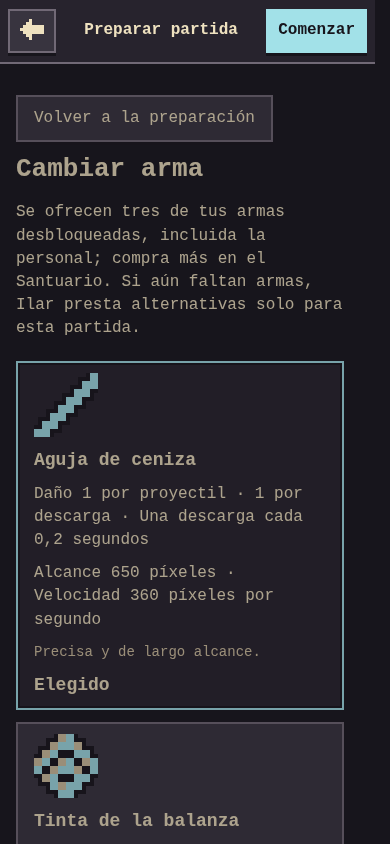
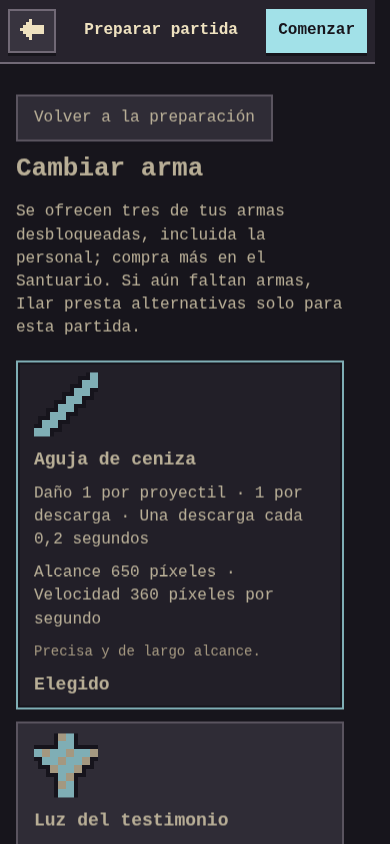
Verificar claridad en móvil y escritorio y documentar resultados

diff --git a/src/ui/catalog.js b/src/ui/catalog.js
@@ -11,10 +11,11 @@ import {buildForms} from '../evolution.js';
 import {superRequirement} from '../lore-views.js';
 import {price} from '../meta-game.js';
 import {icon,itemIcon} from './icons.js';
+export const plainText=text=>text.replaceAll('impulso','esquiva').replace(/\bpx\/s\b/g,'píxeles por segundo').replace(/\bpx\b/g,'píxeles').replace(/\bs\b/g,'segundos');
 export const number=n=>Number(n.toFixed(3)).toLocaleString('es-ES');
 export const weaponImage=(id,level=1)=>`<canvas data-weapon-icon="${id}" data-weapon-level="${level}" width="16" height="16" class="weapon-icon catalog-image" aria-label="${weapons[id].name}, forma ${level}" role="img"></canvas>`;
 export const portrait=c=>`<canvas data-portrait="${c.id}" width="32" height="32" class="portrait catalog-image" role="img" aria-label="Retrato de ${c.name}"></canvas>`;
-export function weaponStats(g){return `<ul class="catalog-stats"><li>Daño: ${number(g.damage)} por proyectil.</li><li>Cantidad: ${g.count} ${g.mode==='orbit'?'sellos orbitales':'proyectiles'} por descarga.</li><li>Cadencia: una ${g.mode==='burst'?'ráfaga':'descarga'} cada ${number(g.interval)} segundos.</li><li>Velocidad: ${g.speed?number(g.speed)+' píxeles por segundo.':'efecto fijo, sin avance lineal.'}</li><li>Alcance: ${g.mode==='orbit'?number(g.orbitRadius)+' píxeles de radio orbital; duración '+number(g.duration)+' segundos.':number(g.range)+' píxeles.'}</li></ul>`;}
+export function weaponStats(g){return `<ul class="catalog-stats"><li>Daño: ${number(g.damage)} por proyectil.</li><li>Cantidad: ${g.count} ${g.mode==='orbit'?(g.count===1?'sello orbital':'sellos orbitales'):(g.count===1?'proyectil':'proyectiles')} por descarga.</li><li>Cadencia: una ${g.mode==='burst'?'ráfaga':'descarga'} cada ${number(g.interval)} segundos.</li><li>Velocidad: ${g.speed?number(g.speed)+' píxeles por segundo.':'efecto fijo, sin avance lineal.'}</li><li>Alcance: ${g.mode==='orbit'?number(g.orbitRadius)+' píxeles de radio orbital; duración '+number(g.duration)+' segundos.':number(g.range)+' píxeles.'}</li></ul>`;}
 const finalText={split:'',backfan:'Dispara también tres proyectiles hacia atrás.',return:'Tras agotar los rebotes regresa hacia ti y puede volver a golpear.',chain:'Un impacto salta a otro enemigo cercano.',frost:'Los impactos ralentizan al enemigo durante 0,6 segundos.',quake:'El sello emite pulsos de daño durante 0,75 segundos.',sunfall:'Cada impacto deja una explosión pequeña tras 0,2 segundos.',reflect:'Los orbitales reflejan balas enemigas cercanas.',moon:'Deja una luna dañina al regresar.'};
 // Los porcentajes y tiempos del efecto final se leen de su configuración.
 import {evolutionEffects as E} from '../data/evolutions.js';
@@ -26,15 +27,15 @@ finalText.backfan=`Añade tres proyectiles hacia atrás; cada uno causa el ${num
 finalText.chain=`Un impacto envía un proyectil al enemigo más cercano; causa el ${number(E.chainDamage*100)}% del daño.`;
 finalText.reflect=`Refleja una bala enemiga a menos de ${E.reflectRange} píxeles de un orbital, como máximo cada ${number(E.reflectCooldown)} segundos; causa el ${number(E.reflectDamage*100)}% del daño orbital.`;
 finalText.moon=`Al regresar deja una luna orbital de radio ${E.moonRadius} píxeles durante ${number(E.moonLife)} segundos; atraviesa ${E.moonPierce} enemigos adicionales.`;
-export function evolutionDescription(g){return [`Dispara ${g.count} ${g.mode==='orbit'?'sellos orbitales':'proyectiles'}.`,g.sideFactor?`Cada proyectil lateral causa el ${number(g.sideFactor*100)}% del daño central.`:'',['beam','orbit','area'].includes(g.mode)?'Puede atravesar hasta 15 enemigos adicionales por emisión.':g.pierce?`Atraviesa ${g.pierce} enemigos adicionales.`:'',g.bounces?`Rebota ${g.bounces} veces en las paredes.`:'',g.projectileMode==='bounce'?'Los proyectiles rebotan.':'',g.projectileMode==='homing'?'Los proyectiles buscan enemigos.':'',g.mode==='homing'?'Se curva hacia el enemigo más cercano.':'',g.mode==='orbit'?`Órbita de ${g.orbitRadius} píxeles durante ${number(g.duration)} segundos.`:`Alcance de ${g.range} píxeles.`,g.radius&&g.mode==='area'?`Explosión de radio ${g.radius} píxeles, tras ${number(g.delay)} segundos.`:'',`Daño ${number(g.damage)}; una descarga cada ${number(g.interval)} segundos.`,g.finalEffect?'Efecto final: '+finalText[g.finalEffect]:''].filter(Boolean).join(' ');}
-export function weaponDetails(id){const g=weapons[id];return `${weaponStats(g)}<p>${g.special}</p><p>Valores base sin mejoras ni bonificaciones del personaje. Los proyectiles laterales y los efectos secundarios tienen su propio daño.</p><h3>Cuatro formas de evolución</h3><p>Las bajas se acumulan por arma durante la partida y se conservan al alternarla. Las marcas del icono indican la forma.</p><div class="catalog-evolutions">${buildForms(id).map((f,i)=>`<article>${weaponImage(id,i+1)}<h4>${D.evolution.names[i]}</h4><p>${i?D.evolution.thresholds[i-1]+' bajas acumuladas':'Desde el inicio · 0 bajas'}</p><p>${evolutionDescription(f)}</p></article>`).join('')}</div>`;}
-export function abilityDetails(c){return `${abilities[c.id].name}: ${abilities[c.id].text.replace('impulso','esquiva')} Al activarla obtienes ${number(X.ability.invulnerability)} segundos de invulnerabilidad. Se carga rozando balas sin recibir daño.`;}
+export function evolutionDescription(g){return [`Dispara ${g.count} ${g.mode==='orbit'?(g.count===1?'sello orbital':'sellos orbitales'):(g.count===1?'proyectil':'proyectiles')}.`,g.sideFactor?`Cada proyectil lateral causa el ${number(g.sideFactor*100)}% del daño central.`:'',['beam','orbit','area'].includes(g.mode)?'Puede atravesar hasta 15 enemigos adicionales por emisión.':g.pierce?`Atraviesa ${g.pierce} ${g.pierce===1?'enemigo adicional':'enemigos adicionales'}.`:'',g.bounces?`Rebota ${g.bounces} ${g.bounces===1?'vez':'veces'} en las paredes.`:'',g.projectileMode==='bounce'?'Los proyectiles rebotan.':'',g.projectileMode==='homing'?'Los proyectiles buscan enemigos.':'',g.mode==='homing'?'Se curva hacia el enemigo más cercano.':'',g.mode==='orbit'?`Órbita de ${g.orbitRadius} píxeles durante ${number(g.duration)} segundos.`:`Alcance de ${g.range} píxeles.`,g.radius&&g.mode==='area'?`Explosión de radio ${g.radius} píxeles, tras ${number(g.delay)} segundos.`:'',`Daño ${number(g.damage)}; una descarga cada ${number(g.interval)} segundos.`,g.finalEffect?'Efecto final: '+finalText[g.finalEffect]:''].filter(Boolean).join(' ');}
+export function weaponDetails(id){const g=weapons[id];return `${weaponStats(g)}<p>${plainText(g.special)}</p><p>Valores base sin mejoras ni bonificaciones del personaje; daño redondeado a tres decimales. Los proyectiles laterales y los efectos secundarios tienen su propio daño.</p><h3>Cuatro formas de evolución</h3><p>Las bajas se acumulan por arma durante la partida y se conservan al alternarla. Las marcas del icono indican la forma.</p><div class="catalog-evolutions">${buildForms(id).map((f,i)=>`<article>${weaponImage(id,i+1)}<h4>${D.evolution.names[i]}</h4><p>${i?D.evolution.thresholds[i-1]+' bajas acumuladas':'Desde el inicio · 0 bajas'}</p><p>${evolutionDescription(f)}</p></article>`).join('')}</div>`;}
+export function abilityDetails(c){return `${abilities[c.id].name}: ${plainText(abilities[c.id].text)} Al activarla obtienes ${number(X.ability.invulnerability)} segundos de invulnerabilidad. Se carga rozando balas sin recibir daño.`;}
 function luckText(level){const weights=B.progression.weights,rare=weights.rare+level*D.stats.luckWeight,epic=weights.epic+level*D.stats.luckWeight*0.3,total=weights.common+rare+epic;return `Raros ${number(100*rare/total)}%; épicos ${number(100*epic/total)}% (Brasa tenue, con las tres rarezas disponibles).`;}
 export function treeEffect(id,level){return {vitality:`+${level} de vida inicial (tope global ${D.caps.health}).`,stride:`+${number(level*D.stats.permanentSpeed*100)}% de velocidad inicial.`,luck:luckText(level),discount:`${number(level*D.stats.discount*100)}% de descuento en compras del Santuario; el precio se redondea hacia arriba.`}[id];}
-function itemEffect(u){return u.text.replaceAll('impulso','esquiva')+(u.id==='oath'?' Prolonga el estado temporal de la habilidad; no repite la curación ni la recarga instantáneas.':'')+(u.id==='dawn'?' La curación se ajusta a la dificultad y los pactos.':'');}
+function itemEffect(u){return plainText(u.text)+(u.id==='oath'?' Prolonga el estado temporal de la habilidad; no repite la curación ni la recarga instantáneas.':'')+(u.id==='dawn'?' La curación se ajusta a la dificultad y los pactos.':'');}
 export function catalogue(save){const entries=[];const add=(category,id,name,image,effect,change,owned,details='')=>entries.push({key:category+':'+id,category,id,name,image,effect,change,owned,details,cost:price(save,category,id)});
- for(const g of Object.values(weapons))add('weapon',g.id,g.name,weaponImage(g.id),`${number(g.damage)} de daño por proyectil; ${g.count} por descarga cada ${number(g.interval)} segundos. ${g.special}`,'Podrás elegirla como arma inicial y aparecerá como botín en tus partidas',save.meta.weapons.includes(g.id),weaponDetails(g.id));
- for(const c of Object.values(characters)){const owned=canSelect(save.progress,c);add('character',c.id,c.name,portrait(c),`${c.health} de vida; velocidad ${c.speed} píxeles por segundo; hitbox de radio ${c.radius} píxeles.`,`Desbloquea esta alma para elegirla al preparar una partida. Su arma personal se presta al elegirla; comprar el alma no abre el arma como botín. Alternativa sin ecos: ${c.unlock}.`,owned,`<p>Daño base: ×${number(c.damage)}.</p><p>${c.passive.replaceAll('impulso','esquiva')}</p><p>Arma personal: ${weaponImage(c.weapon)} ${weapons[c.weapon].name}.</p><h3>Habilidad especial</h3><p>${abilityDetails(c)}</p><p>${c.story}</p>`);}
+ for(const g of Object.values(weapons))add('weapon',g.id,g.name,weaponImage(g.id),`${number(g.damage)} de daño por proyectil; ${g.count} por descarga cada ${number(g.interval)} segundos. ${plainText(g.special)}`,'Podrás elegirla como arma inicial y aparecerá como botín en tus partidas',save.meta.weapons.includes(g.id),weaponDetails(g.id));
+ for(const c of Object.values(characters)){const owned=canSelect(save.progress,c);add('character',c.id,c.name,portrait(c),`${c.health} de vida; velocidad ${c.speed} píxeles por segundo; hitbox de radio ${c.radius} píxeles.`,`Desbloquea esta alma para elegirla al preparar una partida. Su arma personal se presta al elegirla; comprar el alma no abre el arma como botín. Alternativa sin ecos: ${c.unlock}.`,owned,`<p>Daño base: ×${number(c.damage)}.</p><p>${plainText(c.passive)}</p><p>Arma personal: ${weaponImage(c.weapon)} ${weapons[c.weapon].name}.</p><h3>Habilidad especial</h3><p>${abilityDetails(c)}</p><p>${c.story}</p>`);}
  for(const [id,c] of Object.entries(D.tree)){const level=save.meta.tree[id];add('tree',id,c.name,icon({vitality:'heart',stride:'dash',luck:'start',discount:'echo'}[id],48),`Nivel ${level}/${c.max}. Ahora: ${treeEffect(id,level)}`,level<c.max?`Nivel ${level}/${c.max} → Nivel ${level+1}: ${treeEffect(id,level+1)}`:'Rama completada; no admite más niveles.',level>=c.max,`<p>Máximo: ${c.max} ${c.max===1?'nivel':'niveles'}. El precio aumenta con cada compra.</p>${id==='luck'?'<p>La suerte aumenta la posibilidad de recibir rarezas mejores; no añade un porcentaje fijo. La probabilidad cambia según la dificultad y las rarezas que aún tengan ítems disponibles.</p>':''}`);}
  for(const u of upgrades.filter(u=>u.shopUnlock||u.unlock))add('item',u.id,u.name,itemIcon(u.id),itemEffect(u),'Abre este ítem en las recompensas de tus partidas; no lo entrega inmediatamente.',save.meta.items.includes(u.id)||!!(u.unlock&&save.progress.unlocks>=u.unlock),`<p>Máximo ${u.max} niveles por partida. Se obtiene eligiéndolo cuando aparece como mejora.${u.unlock?' También se abre con la progresión antigua de desbloqueos.':''}</p>`);
  for(const s of superItems.filter(s=>s.shopUnlock))add('super',s.id,s.name,itemIcon(s.id),s.text.replace('Tiempo enemigo al 65%.',`Balas enemigas al ${R.timeFactor*100}% de velocidad.`).replace('órbitas de protección','sellos orbitales que dañan a los enemigos')+` Daño ×${number(s.damage)}; velocidad de movimiento ×${number(s.speed)}.`,'Compra su catálogo. No concede el superítem ni omite su condición durante la partida.',save.meta.supers.includes(s.id),`<h3>Condición para conseguirlo en partida</h3><p>${superRequirement(s)}.</p><p>Solo un superítem por partida. La curación se ajusta a la dificultad y los pactos.${s.id==='nobody'?` La reducción de tiempo afecta a las balas enemigas: velocidad al ${R.timeFactor*100}%.`:''}</p>`);

diff --git a/src/ui/screens.js b/src/ui/screens.js
@@ -1,5 +1,5 @@
 import {abilities} from '../data/extras.js';
-import {weaponImage,portrait,abilityDetails,number} from './catalog.js';
+import {weaponImage,portrait,abilityDetails,number,plainText} from './catalog.js';
 import {icon} from './icons.js';
 import {characters,canSelect} from '../data/characters.js';
 import {weapons} from '../data/weapons.js';
@@ -11,10 +11,10 @@ export function preparationScreen(w,save,state){
  const c=w.character,g=weapons[state.weapon],d=difficulties[w.difficultyIndex];
  const back='<button data-prep-tab="summary">Volver a la preparación</button>';
  let content='';
- if(state.tab==='summary')content=`<div class="prep-equipment"><article><h3>Tu personaje</h3>${portrait(c)}<strong>${c.name}</strong><p>${abilities[c.id].name}: ${abilities[c.id].text.replaceAll('impulso','esquiva')}</p><button data-prep-tab="character">Cambiar personaje</button></article><article><h3>Tu arma</h3>${weaponImage(g.id)}<strong>${g.name}</strong><p>${number(g.damage)} de daño por proyectil · ${g.count} por descarga</p><button data-prep-tab="weapon">Cambiar arma</button></article></div>${state.showHelp?'<div class="prep-help" role="note"><p>Aquí cambias de personaje y de arma. Toca «Cambiar» en el bloque correspondiente y elige una tarjeta.</p><button data-dismiss-prep-help>Entendido</button></div>':''}<section class="prep-initial"><h3>Mejora inicial</h3><p>Se aplicará al comenzar. Puedes elegir otra sin gastar ecos.</p>${initialChoices(w,state)}</section><button data-prep-tab="rules">Dificultad: ${d.name} · ${w.pactIds.length} pactos activos · Opciones avanzadas</button>`;
+ if(state.tab==='summary')content=`<div class="prep-equipment"><article><h3>Tu personaje</h3>${portrait(c)}<strong>${c.name}</strong><p>${abilities[c.id].name}: ${plainText(abilities[c.id].text)}</p><button data-prep-tab="character">Cambiar personaje</button></article><article><h3>Tu arma</h3>${weaponImage(g.id)}<strong>${g.name}</strong><p>${number(g.damage)} de daño por proyectil · ${g.count} por descarga</p><button data-prep-tab="weapon">Cambiar arma</button></article></div>${state.showHelp?'<div class="prep-help" role="note"><p>Aquí cambias de personaje y de arma. Toca «Cambiar» en el bloque correspondiente y elige una tarjeta.</p><button data-dismiss-prep-help>Entendido</button></div>':''}<section class="prep-initial"><h3>Mejora inicial</h3><p>Se aplicará al comenzar. Puedes elegir otra sin gastar ecos.</p>${initialChoices(w,state)}</section><button data-prep-tab="rules">Dificultad: ${d.name} · ${w.pactIds.length} pactos activos · Opciones avanzadas</button>`;
  if(state.tab==='character')content=`${back}<h2>Cambiar personaje</h2><p>Toca «Elegir» para volver con tu nueva alma. Su arma personal estará entre las tres opciones.</p><div class="cards">${Object.values(characters).map(ch=>{const available=canSelect(save.progress,ch),chosen=ch.id===c.id;return `<article class="upgrade ${chosen?'selected':''}">${portrait(ch)}<strong>${ch.name}</strong><p>Vida ${ch.health} · Velocidad ${ch.speed} píxeles por segundo · Hitbox de radio ${ch.radius} píxeles · Daño ×${number(ch.damage)}</p><p>${abilityDetails(ch)}</p><p>Arma personal: ${weaponImage(ch.weapon)} ${weapons[ch.weapon].name}.</p><small>${ch.story}</small><strong>${chosen?'Elegido':available?'Disponible':'Bloqueado · '+ch.unlock}</strong><button data-prep-character="${ch.id}" ${available&&!w.dailyKey?'':'disabled'} aria-pressed="${chosen}">${chosen?'Elegido':'Elegir '+ch.name}</button>${!available?'<button data-prep-sanctuary="characters">Ir al Santuario</button>':''}</article>`;}).join('')}</div>${back}`;
- if(state.tab==='weapon')content=`${back}<h2>Cambiar arma</h2><p>Se ofrecen tres de tus armas desbloqueadas, incluida la personal; compra más en el Santuario. Si aún faltan armas, Ilar presta alternativas solo para esta partida.</p><div class="cards">${w.draft.map(choice=>{const gun=weapons[choice.id];return `<button class="upgrade ${state.weapon===gun.id?'selected':''}" data-start-weapon="${gun.id}" aria-pressed="${state.weapon===gun.id}">${weaponImage(gun.id)}<strong>${gun.name}</strong><span>Daño ${number(gun.damage)} por proyectil · ${gun.count} por descarga · Una descarga cada ${number(gun.interval)} segundos</span><span>${gun.mode==='orbit'?'Radio orbital '+gun.orbitRadius+' píxeles':'Alcance '+gun.range+' píxeles'} · Velocidad ${gun.speed} píxeles por segundo</span><small>${gun.special}</small><strong>${state.weapon===gun.id?'Elegido':choice.loan?'Préstamo para esta partida':gun.id===c.weapon?'Arma personal':'Desbloqueada'}</strong></button>`;}).join('')}</div><button data-reroll="weapon" ${save.meta.rerolls&&!w.dailyKey?'':'disabled'}>Cambiar las tres opciones · ${w.dailyKey?0:save.meta.rerolls} cambios restantes</button><h3>Resto del catálogo</h3><p>Las armas compradas pueden salir en otra selección o como botín. No sustituyen las tres ofrecidas sin gastar un cambio.</p><div class="cards">${Object.values(weapons).filter(gun=>!w.draft.some(choice=>choice.id===gun.id)).map(gun=>{const unlocked=save.meta.weapons.includes(gun.id)||!!w.dailyKey;return `<article class="upgrade">${weaponImage(gun.id)}<strong>${gun.name}</strong><p>${number(gun.damage)} de daño; ${gun.count} proyectiles cada ${number(gun.interval)} segundos.</p><p>${gun.special}</p><strong>${unlocked?'Desbloqueada · No ofrecida esta vez':'Bloqueada · Se compra con ecos en el Santuario'}</strong>${!unlocked?'<button data-prep-sanctuary="weapons">Ir al Santuario</button>':''}</article>`;}).join('')}</div>${back}`;
- if(state.tab==='rules')content=`${back}<h2>Dificultad y opciones avanzadas</h2><label>Dificultad <select id="difficulty-input" ${w.dailyKey?'disabled':''}>${difficulties.map((difficulty,i)=>`<option value="${i}" ${i===w.difficultyIndex?'selected':''} ${i>save.meta.difficulty?'disabled':''}>${difficulty.name}${i>save.meta.difficulty?' · bloqueada':''}</option>`).join('')}</select></label><div class="rule-description"><h3>${w.rules.name}</h3><p>Vida enemiga ×${w.rules.health} · Balas ×${w.rules.speed} · Curación ×${w.rules.heal}</p><p class="accent">Recompensa: ×${w.rules.echoes} ecos. ${w.rules.extraPhases?'Los jefes tienen fases adicionales.':'Ataques con señal previa.'}</p></div><details class="prep-advanced"><summary>Opciones avanzadas · ${w.pactIds.length} pactos activos</summary><h3>Pactos opcionales · ${w.pactIds.length}/5</h3><p>Más riesgo a cambio de ecos. Puedes dejarlos todos desactivados.</p>${pacts.map(p=>`<label class="setting"><span>${p.name}<br><small>${p.text} +${Math.round(p.echoes*100)}% ecos.</small></span><input type="checkbox" data-pact="${p.id}" ${w.pactIds.includes(p.id)?'checked':''} ${w.dailyKey?'disabled':''}></label>`).join('')}<details><summary>Mundo y semilla</summary><label>Mundo inicial <select id="start-world" ${w.dailyKey?'disabled':''}>${worlds.map((z,i)=>`<option value="${i}" ${i===w.worldIndex?'selected':''} ${i>=save.progress.worlds?'disabled':''}>${z.name}</option>`).join('')}</select></label><p>Completa desde el fondo para desbloquear la siguiente dificultad.</p><label>Semilla <input id="seed-input" inputmode="numeric" maxlength="10" value="${state.seedText??w.seed}" ${w.dailyKey?'disabled':''}></label><p id="seed-error" role="status"></p></details></details>${back}`;
+ if(state.tab==='weapon')content=`${back}<h2>Cambiar arma</h2><p>Se ofrecen tres de tus armas desbloqueadas, incluida la personal; compra más en el Santuario. Si aún faltan armas, Ilar presta alternativas solo para esta partida.</p><div class="cards">${w.draft.map(choice=>{const gun=weapons[choice.id];return `<button class="upgrade ${state.weapon===gun.id?'selected':''}" data-start-weapon="${gun.id}" aria-pressed="${state.weapon===gun.id}">${weaponImage(gun.id)}<strong>${gun.name}</strong><span>Daño ${number(gun.damage)} por proyectil · ${gun.count} por descarga · Una descarga cada ${number(gun.interval)} segundos</span><span>${gun.mode==='orbit'?'Radio orbital '+gun.orbitRadius+' píxeles':'Alcance '+gun.range+' píxeles'} · Velocidad ${gun.speed} píxeles por segundo</span><small>${plainText(gun.special)}</small><strong>${state.weapon===gun.id?'Elegido':choice.loan?'Préstamo para esta partida':gun.id===c.weapon?'Arma personal':'Desbloqueada'}</strong></button>`;}).join('')}</div><button data-reroll="weapon" ${save.meta.rerolls&&!w.dailyKey?'':'disabled'}>Cambiar las tres opciones · ${w.dailyKey?0:save.meta.rerolls} cambios restantes</button><h3>Resto del catálogo</h3><p>Las armas compradas pueden salir en otra selección o como botín. No sustituyen las tres ofrecidas sin gastar un cambio.</p><div class="cards">${Object.values(weapons).filter(gun=>!w.draft.some(choice=>choice.id===gun.id)).map(gun=>{const unlocked=save.meta.weapons.includes(gun.id)||!!w.dailyKey;return `<article class="upgrade">${weaponImage(gun.id)}<strong>${gun.name}</strong><p>${number(gun.damage)} de daño; ${gun.count} proyectiles cada ${number(gun.interval)} segundos.</p><p>${plainText(gun.special)}</p><strong>${unlocked?'Desbloqueada · No ofrecida esta vez':'Bloqueada · Se compra con ecos en el Santuario'}</strong>${!unlocked?'<button data-prep-sanctuary="weapons">Ir al Santuario</button>':''}</article>`;}).join('')}</div>${back}`;
+ if(state.tab==='rules')content=`${back}<h2>Dificultad y opciones avanzadas</h2><label>Dificultad <select id="difficulty-input" ${w.dailyKey?'disabled':''}>${difficulties.map((difficulty,i)=>`<option value="${i}" ${i===w.difficultyIndex?'selected':''} ${i>save.meta.difficulty?'disabled':''}>${difficulty.name}${i>save.meta.difficulty?' · bloqueada':''}</option>`).join('')}</select></label><div class="rule-description"><h3>${w.rules.name}</h3><p>Vida enemiga ×${w.rules.health} · Balas ×${w.rules.speed} · Curación ×${w.rules.heal}</p><p class="accent">Recompensa: ×${w.rules.echoes} ecos. ${w.rules.extraPhases?'Los jefes tienen fases adicionales.':'Ataques con señal previa.'}</p></div><details class="prep-advanced"><summary>Opciones avanzadas · ${w.pactIds.length} pactos activos</summary><h3>Pactos opcionales · ${w.pactIds.length}/5</h3><p>Más riesgo a cambio de ecos. Puedes dejarlos todos desactivados.</p>${pacts.map(p=>`<label class="setting"><span>${p.name}<br><small>${p.text} +${Math.round(p.echoes*100)}% ecos.</small></span><input type="checkbox" data-pact="${p.id}" ${w.pactIds.includes(p.id)?'checked':''} ${w.dailyKey?'disabled':''}></label>`).join('')}<details><summary>Mundo y semilla</summary><label>Mundo inicial <select id="start-world" ${w.dailyKey?'disabled':''}>${worlds.map((z,i)=>`<option value="${i}" ${i===w.worldIndex?'selected':''} ${i>=save.progress.worlds?'disabled':''}>${z.name}</option>`).join('')}</select></label><p>Completa desde el fondo para desbloquear la siguiente dificultad.</p><label>Semilla <input id="seed-input" inputmode="numeric" maxlength="10" value="${String(state.seedText??w.seed).replaceAll('&','&amp;').replaceAll('"','&quot;').replaceAll('<','&lt;').replaceAll('>','&gt;')}" ${w.dailyKey?'disabled':''}></label><p id="seed-error" role="status"></p></details></details>${back}`;
  return `<section class="preparation-clarity">${w.dailyKey?'<p class="accent">Diaria: misma semilla y equipo disponible para todos, sin árbol permanente ni cambios de opciones.</p>':''}${content}<p class="prep-swap-help">${state.touch?'Durante la partida cambias de arma con el botón Cambiar.':'Durante la partida cambias de arma con '+state.swapKey+' o el botón Cambiar.'}</p></section>`;
 }
 function initialChoices(w,s){return `<div class="cards">${w.options.map(u=>`<button class="upgrade ${s.initial===u.id?'selected':''}" data-prep-initial="${u.id}" aria-pressed="${s.initial===u.id}"><strong>${u.name}</strong><span>${u.text}</span><small>${s.initial===u.id?'Elegida':'Elegir mejora'}</small></button>`).join('')}</div>`;}

diff --git a/sw.js b/sw.js
@@ -1,5 +1,5 @@
 // Subir CACHE al publicar cambios: una versión completa, sin activar durante el combate.
-const CACHE='el-umbral-clarity-2';
+const CACHE='el-umbral-clarity-3';
 const FILES=[
  "./",
  "index.html",

diff --git a/docs/capturas/claridad/README.md b/docs/capturas/claridad/README.md
@@ -1,0 +1,20 @@
+# Capturas de claridad
+
+Viewports en píxeles CSS. Una sola zona de desplazamiento; cabecera fija. Las imágenes muestran la parte visible de contenidos que pueden desplazarse.
+
+| Pantalla | 390×844 | 844×390 | 768×1024 | 1920×1080 |
+|---|---|---|---|---|
+| Santuario · Armas | [Ver](santuario-weapons-390x844.png) | [Ver](santuario-weapons-844x390.png) | [Ver](santuario-weapons-768x1024.png) | [Ver](santuario-weapons-1920x1080.png) |
+| Santuario · Almas | [Ver](santuario-characters-390x844.png) | [Ver](santuario-characters-844x390.png) | [Ver](santuario-characters-768x1024.png) | [Ver](santuario-characters-1920x1080.png) |
+| Santuario · Mejoras | [Ver](santuario-tree-390x844.png) | [Ver](santuario-tree-844x390.png) | [Ver](santuario-tree-768x1024.png) | [Ver](santuario-tree-1920x1080.png) |
+| Santuario · Ítems | [Ver](santuario-items-390x844.png) | [Ver](santuario-items-844x390.png) | [Ver](santuario-items-768x1024.png) | [Ver](santuario-items-1920x1080.png) |
+| Santuario · Lore | [Ver](santuario-lore-390x844.png) | [Ver](santuario-lore-844x390.png) | [Ver](santuario-lore-768x1024.png) | [Ver](santuario-lore-1920x1080.png) |
+| Detalle · Arma | [Ver](detalle-weapons-390x844.png) | [Ver](detalle-weapons-844x390.png) | [Ver](detalle-weapons-768x1024.png) | [Ver](detalle-weapons-1920x1080.png) |
+| Detalle · Alma | [Ver](detalle-characters-390x844.png) | [Ver](detalle-characters-844x390.png) | [Ver](detalle-characters-768x1024.png) | [Ver](detalle-characters-1920x1080.png) |
+| Detalle · Mejora | [Ver](detalle-tree-390x844.png) | [Ver](detalle-tree-844x390.png) | [Ver](detalle-tree-768x1024.png) | [Ver](detalle-tree-1920x1080.png) |
+| Detalle · Ítem | [Ver](detalle-items-390x844.png) | [Ver](detalle-items-844x390.png) | [Ver](detalle-items-768x1024.png) | [Ver](detalle-items-1920x1080.png) |
+| Detalle · Lore | [Ver](detalle-lore-390x844.png) | [Ver](detalle-lore-844x390.png) | [Ver](detalle-lore-768x1024.png) | [Ver](detalle-lore-1920x1080.png) |
+| Evoluciones, zona desplazada | [Ver](evoluciones-390x844.png) | [Ver](evoluciones-844x390.png) | [Ver](evoluciones-768x1024.png) | [Ver](evoluciones-1920x1080.png) |
+| Preparación | [Ver](preparacion-390x844.png) | [Ver](preparacion-844x390.png) | [Ver](preparacion-768x1024.png) | [Ver](preparacion-1920x1080.png) |
+| Cambiar personaje | [Ver](personajes-390x844.png) | [Ver](personajes-844x390.png) | [Ver](personajes-768x1024.png) | [Ver](personajes-1920x1080.png) |
+| Cambiar arma | [Ver](armas-390x844.png) | [Ver](armas-844x390.png) | [Ver](armas-768x1024.png) | [Ver](armas-1920x1080.png) |

diff --git a/docs/pruebas-ui.md b/docs/pruebas-ui.md
@@ -77,3 +77,32 @@ recarga, revisión en Opciones y regreso del Santuario sin renovar ofertas ni pe
 arma, mejora o semilla escrita. Capturas en `docs/capturas/claridad/`, cuatro tamaños.
 Se adaptan los recorridos antiguos a confirmación de compra y Opciones avanzadas;
 se conservan sus comprobaciones de migración, diaria, seis mundos y seis jefes.
+
+## Cierre de verificación de claridad
+- Pasan las 51 pruebas de lógica y los ocho recorridos de navegador: browser,
+  depth-browser, ui-layout, ui-flow, ui-screens, mobile-browser, clarity-browser y
+  preparation-browser. Sin errores de consola registrados.
+- Pruebas nuevas adicionales de navegador: elegir otra alma con Enter o toque,
+  arma personal correcta, volver a elegir el alma actual sin perder el arma,
+  tecla reasignada R, texto adaptado al modo táctil y semilla inválida después de
+  volver al resumen. Una compra solo descuenta una vez.
+- Sintaxis de 51 archivos comprobada y HTTP 200 en portada/módulos/service worker.
+  check-pwa comprueba los 46 recursos; CACHE el-umbral-clarity-3.
+- Comparación con respaldo b6e4a8e: 27 archivos protegidos idénticos, incluidos
+  controles, HUD, simulación, renderizado, datos y guardado. También idénticos el
+  cuerpo de updateHud, el bucle frame y las pausas automáticas de main.js.
+  El CSS previo se conserva completo; solo se añaden selectores de estos menús.
+- [Índice de las 56 capturas](capturas/claridad/README.md): cinco pestañas y detalles,
+  evoluciones, preparación y ambas cuadrículas, en los cuatro tamaños pedidos.
+  Se revisaron capturas móviles, de tableta y escritorio; no hay corte horizontal
+  de texto ni scroll del documento. Las listas largas se desplazan dentro del menú.
+- La emulación no sustituye una prueba física de Windows/Android/iPhone. No se
+  ejecutó iniciar.bat nativamente; el servidor existente responde correctamente.
+
+Comandos adicionales en PowerShell, con el servidor ya arrancado:
+
+```powershell
+node --test tests/game.test.mjs tests/depth.test.mjs tests/ui.test.mjs tests/clarity.test.mjs
+node tests/clarity-browser.cjs
+node tests/preparation-browser.cjs
+```

diff --git a/GDD.md b/GDD.md
@@ -223,3 +223,11 @@ de arma lee la tecla asignada y muestra el botón en dispositivos táctiles.
 No se modificaron HUD, textos/ayudas de combate, controles, simulación ni datos.
 Pendiente: comodidad en teléfonos físicos; el rediseño general de fases 6–8 sigue
 fuera de esta tarea. No se sube a GitHub: se respeta la regla específica sin push.
+
+## Cierre de claridad — implementado y comprobado
+51 pruebas de lógica, ocho recorridos de navegador y PWA pasan. 56 capturas en cuatro
+tamaños documentadas en docs/pruebas-ui.md. Se conservan idénticos al respaldo los
+27 archivos de combate/datos/guardado, el HUD, el bucle de juego y el CSS anterior.
+Las estadísticas de daño calculadas se redondean a tres decimales solo al mostrarlas.
+La semilla escrita se valida incluso al comenzar desde el resumen; nunca se guarda
+una partida en curso. Pendiente: prueba humana de comodidad en dispositivos reales.

diff --git a/docs/diseno-ui.md b/docs/diseno-ui.md
@@ -162,3 +162,9 @@ Ayuda de preparación: marca local independiente de presentación; no reutiliza 
 oculta las ayudas de combate. Se consulta en Opciones → Revisar ayuda de preparación.
 Los selectores CSS añadidos están limitados a catálogo/preparación; estilos anteriores
 conservados. No hay una segunda zona desplazable ni paneles modales anidados.
+
+Glosario adicional: **Comprable** significa que hay saldo y aún no se adquirió;
+**Te faltan N ecos** permite leer, pero deshabilita la confirmación; **Adquirida**
+impide pagar de nuevo; **Elegido** señala la selección de esta preparación;
+**No ofrecida esta vez** es un arma desbloqueada fuera de las tres opciones actuales.
+Los textos calculados de daño se redondean a tres decimales, sin redondear simulación.

diff --git a/README.md b/README.md
@@ -131,3 +131,7 @@ el mundo y la semilla. La ayuda se consulta en Opciones.
 
 Esta entrega se guarda con commits locales, sin push por la instrucción específica.
 Windows: abre `iniciar.bat`. No requiere nuevas dependencias para jugar.
+
+Verificación de esta entrega: 51 pruebas de lógica, ocho recorridos de navegador y
+PWA correctos. [Capturas de los menús](docs/capturas/claridad/README.md) y resultados
+en [docs/pruebas-ui.md](docs/pruebas-ui.md). El combate y el guardado se conservan.
